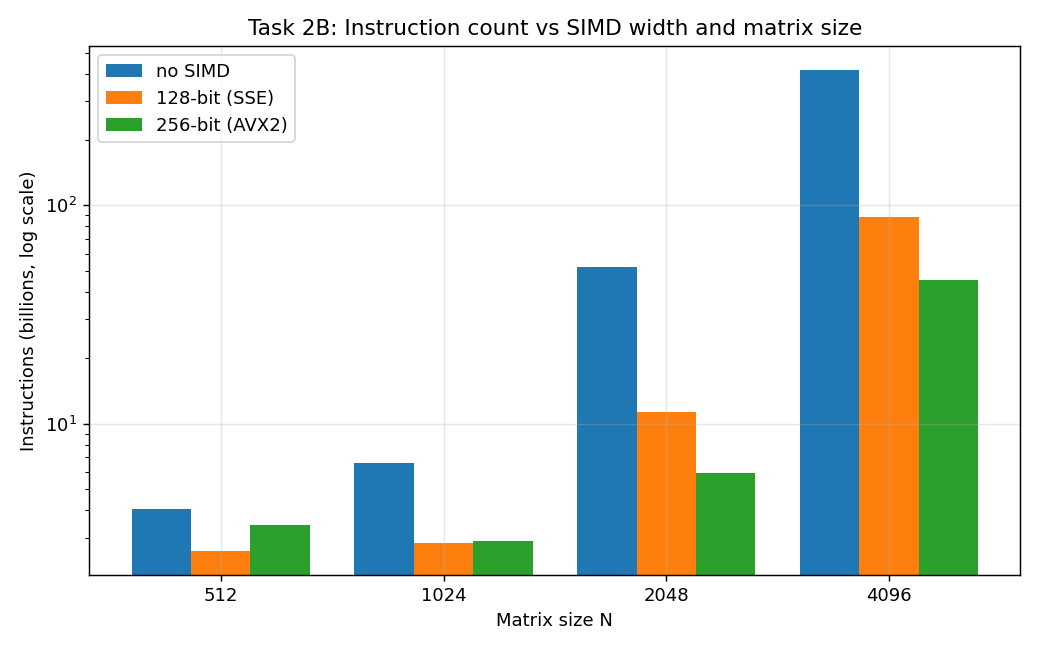
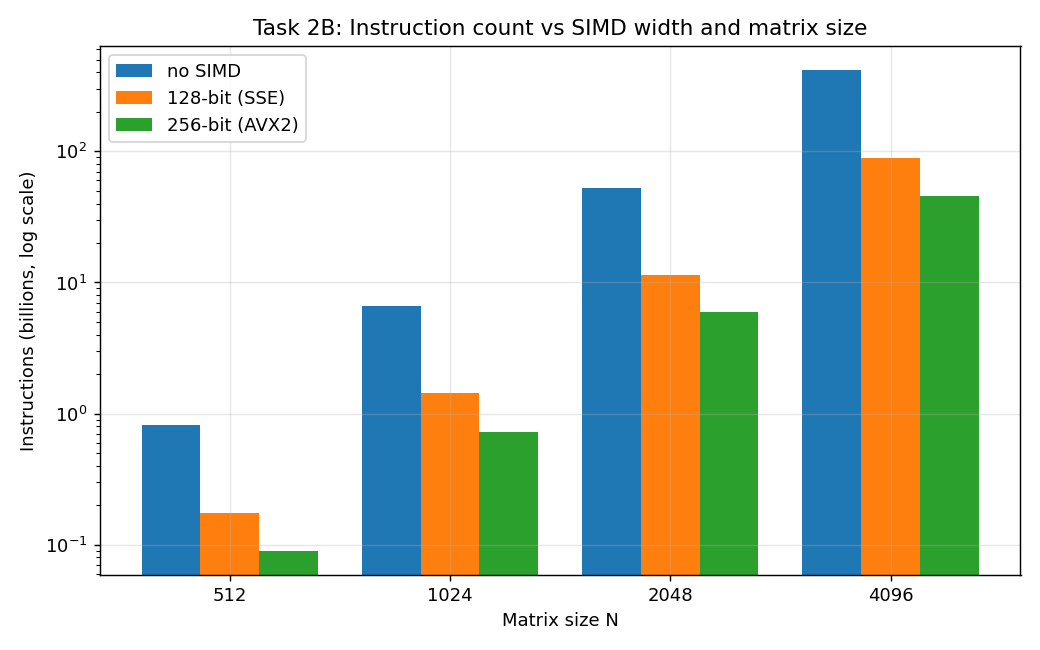
figures for task 2 and comments in matmul_opt

diff --git a/pa1/task2/src/matmul_optimized.cpp b/pa1/task2/src/matmul_optimized.cpp
@@ -1,16 +1,11 @@
 // matmul_optimized.cpp  STAGE 3: PUT IT ALL TOGETHER
 //
-// GEBP (Goto / BLIS) kernel: AVX2+FMA micro-kernel, cache blocking, on-the-fly packing,
-// and software prefetch. Tuned for the i7-12650H P-core (L1d 48 KB, L2 1.25 MB, L3 24 MB).
-//
-//   packed A panel   Mc x Kc          -> resident in L2
-//   packed B panel   Kc x N           -> resident in L3
-//     its Kc x Nr sliver              -> resident in L1
-//   C micro-tile     Mr x Nr = 6 x 16 -> 12 YMM accumulators, held across the whole Kc
-//
-// B arrives transposed (row j contiguous over the contraction index). pack_B gathers it
-// into k-major, Nr-contiguous panels so the micro-kernel is a pure broadcast+FMA stream
-// with NO horizontal reductions and an _mm256 add/store straight back into C.
+// This is the graded function AND the kernel that gets injected into llama.cpp. Combine
+// everything you have learned across the whole assignment  loop reordering, register
+// blocking and unrolling (Task 1 / Stage 1 here), cache tiling and software prefetch
+// (Stage 2)  and TUNE it to be as fast as you can. Your speedup over matmul_naive determines
+// your score (see the tier table the harness prints), and this same function will power a
+// real LLM inference via `make llama-demo`.
 
 #include <immintrin.h>
 #include <algorithm>
@@ -21,16 +16,14 @@
 #include "matmul.h"
 
 namespace {
+    constexpr int kMr = 6;
+    constexpr int kNr = 16;
+    constexpr int kNrV = kNr / 8;
 
-    constexpr int kMr  = 6;              // register-tile rows
-    constexpr int kNr  = 16;             // register-tile cols  (2 x __m256)
-    constexpr int kNrV = kNr / 8;        // vector columns per tile
+    constexpr int kKc = 256;
+    constexpr int kMc = 192;
 
-    constexpr int kKc = 256;             // K block
-    constexpr int kMc = 192;             // M block (multiple of kMr) -> packed A stays in L2
-    // Nc == N : the packed B panel lives in L3
-
-    constexpr int kPfDist = 16;          // k look-ahead for the in-kernel prefetch
+    constexpr int kPfDist = 16;
 
     inline int round_up(int x, int m) { return (x + m - 1) / m * m; }
 
@@ -39,10 +32,7 @@ namespace {
         return static_cast<float*>(std::aligned_alloc(64, bytes));
     }
 
-    // A[ic:ic+mc, pc:pc+kc] (row-major, stride lda)  ->  row-contiguous micro-panels
-    //   Apack[panel*(kMr*kc) + r*kc + k]   (ragged last panel zero-padded)
-    // The micro-kernel only broadcasts from A, so no transpose is needed: each row is a
-    // straight memcpy (vectorized libc, unaffected by -fno-tree-vectorize).
+    // The micro-kernel only broadcasts from A, so no transpose is needed: each row is a straight memcpy
     void pack_A(const float* __restrict__ A, int lda, int ic, int mc, int pc, int kc,
                 float* __restrict__ Apack) {
         const int panels = round_up(mc, kMr) / kMr;
@@ -58,10 +48,7 @@ namespace {
         }
     }
 
-    // B (transposed: row j contiguous over p, stride ldb), cols [0:n), slice [pc:pc+kc]
-    //   ->  Bpack[panel*(kc*kNr) + k*kNr + c]   (ragged last panel zero-padded)
-    void pack_B(const float* __restrict__ B, int ldb, int n, int pc, int kc,
-                float* __restrict__ Bpack) {
+    void pack_B(const float* __restrict__ B, int ldb, int n, int pc, int kc, float* __restrict__ Bpack) {
         const int panels = round_up(n, kNr) / kNr;
         for (int panel = 0; panel < panels; ++panel) {
             float* dst = Bpack + static_cast<long>(panel) * kc * kNr;
@@ -76,11 +63,8 @@ namespace {
         }
     }
 
-    // C[i0:i0+mr, j0:j0+nr] += Apanel(kMr x kc) . Bpanel(kc x kNr)   over kc.
-    // Apanel / Bpanel are contiguous and 32-byte aligned.
-    inline void micro_kernel(const float* __restrict__ Ap, const float* __restrict__ Bp,
-                             float* __restrict__ C, int i0, int j0, int kc,
-                             int mr, int nr, int ldc) {
+    inline void micro_kernel(const float* __restrict__ Ap, const float* __restrict__ Bp, float* __restrict__ C,
+                             int i0, int j0, int kc, int mr, int nr, int ldc) {
         std::array<std::array<__m256, kNrV>, kMr> acc;
         #pragma GCC unroll 8
         for (int r = 0; r < kMr; ++r)
@@ -125,7 +109,7 @@ namespace {
         }
     }
 
-    // Scalar fallback used if the pack buffers can't be allocated (never expected).
+    // Scalar fallback used if the pack buffers can't be allocated
     void matmul_ref(const float* A, const float* B, float* C,
                     int M, int N, int K, int lda, int ldb, int ldc) {
         for (int i = 0; i < M; ++i)
@@ -155,21 +139,21 @@ void matmul_optimized(const float* A, const float* B, float* C,
         return;
     }
 
-    for (int pc = 0; pc < K; pc += kKc) {              // K panels — C accumulates
+    for (int pc = 0; pc < K; pc += kKc) {
         const int kc = std::min(kKc, K - pc);
-        pack_B(B, ldb, N, pc, kc, Bpack);              // -> L3
+        pack_B(B, ldb, N, pc, kc, Bpack); // L3
 
-        for (int ic = 0; ic < M; ic += kMc) {          // M panels
+        for (int ic = 0; ic < M; ic += kMc) { // M panels
             const int mc = std::min(kMc, M - ic);
-            pack_A(A, lda, ic, mc, pc, kc, Apack);      // -> L2
+            pack_A(A, lda, ic, mc, pc, kc, Apack); // L2
             const int mpanels = round_up(mc, kMr) / kMr;
 
-            for (int jr = 0; jr < N; jr += kNr) {       // B micro-panels
+            for (int jr = 0; jr < N; jr += kNr) { // B micro-panels
                 const int nr = std::min(kNr, N - jr);
                 const float* Bp = Bpack + static_cast<long>(jr / kNr) * kc * kNr;
                 _mm_prefetch(reinterpret_cast<const char*>(Bp + kc * kNr), _MM_HINT_T0);
 
-                for (int q = 0; q < mpanels; ++q) {     // A micro-panels
+                for (int q = 0; q < mpanels; ++q) { // A micro-panels
                     const int i0 = ic + q * kMr;
                     const int mr = std::min(kMr, mc - q * kMr);
                     const float* Ap = Apack + static_cast<long>(q) * kMr * kc;
